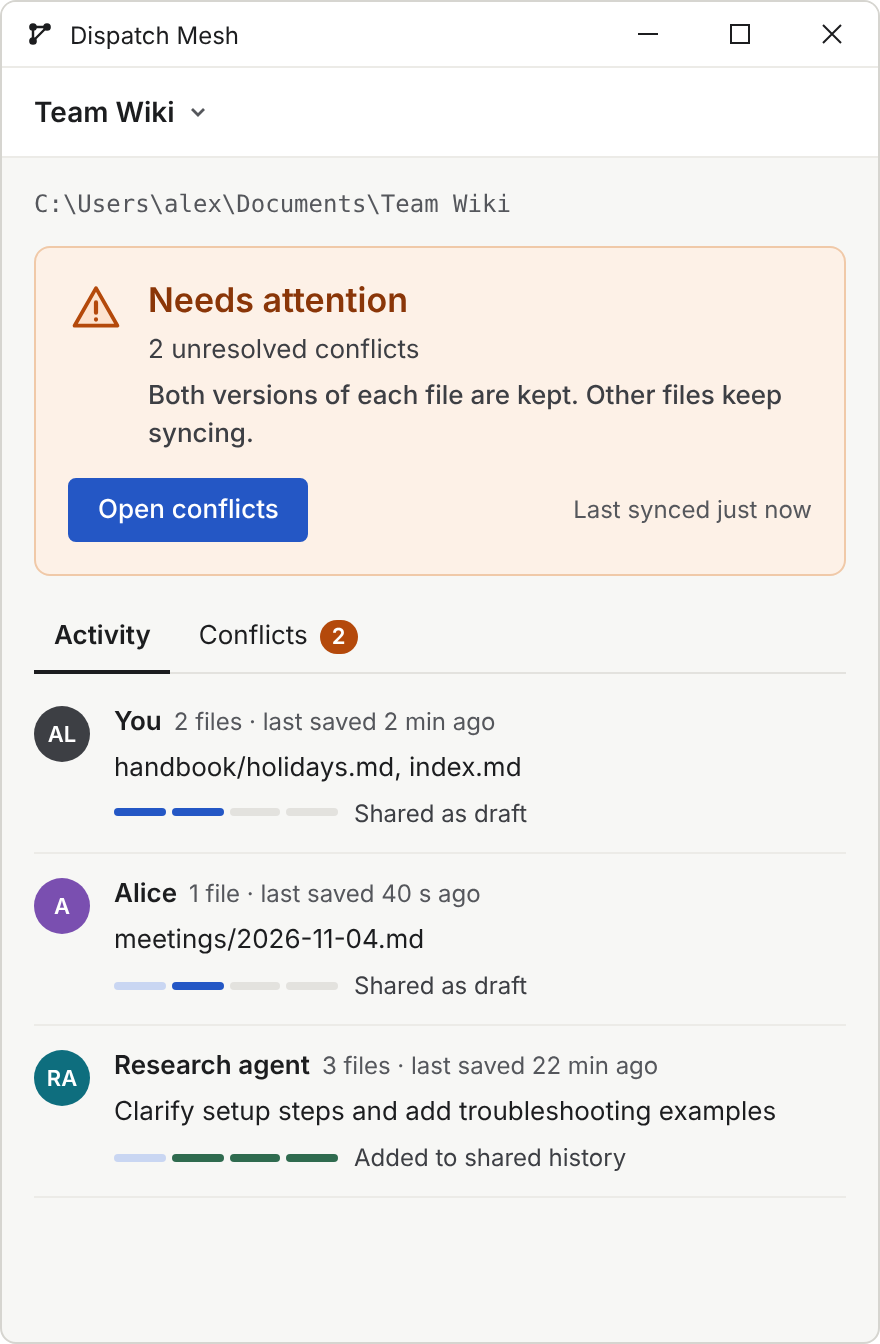
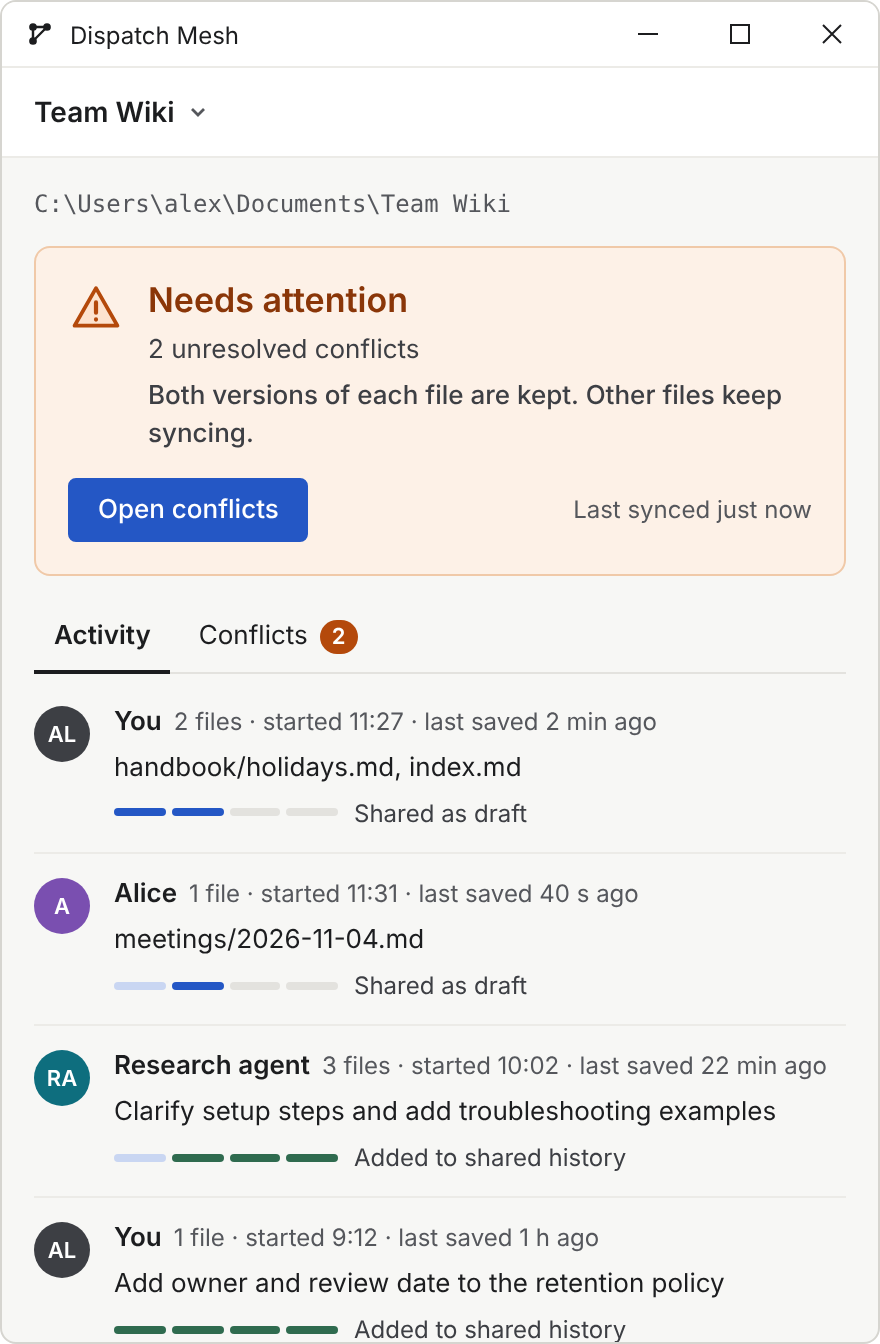
Update session row design with start times and published titles
Refine the design spec and status-window/activity frame sources so session metadata includes its start time and published sessions display a summary title. Update the rendered frame images, append the design change to the wiki log, and add a log-reading reminder to the source notes checklist.

Mesh-Session: 11c52f5b-11e1-47c1-a4ed-e7c026a45ca4
Mesh-Snapshot: bfd648a8fcc67564a07486a97321307a30a4680981573989cb6e347fff0e612a

diff --git a/06_UX/frames/source/03a-status-window.dc.html b/06_UX/frames/source/03a-status-window.dc.html
@@ -140,7 +140,8 @@ class Component extends DCLogic {
     })).map((st, i) => (received && i === 0 ? { bg: '#C9D6F2' } : st)); };
     if (!remote) { s.lastSync = 'This device only'; }
     const youTitle = { 1: 'handbook/holidays.md, index.md', 2: 'handbook/holidays.md, index.md', 3: 'handbook/holidays.md, index.md', 4: 'Update holiday dates for 2027' };
-    const youMeta = { 1: '2 files · last saved just now', 2: '2 files · last saved 2 min ago', 3: '2 files · last saved 3 min ago', 4: '2 files · last saved 6 min ago' };
+    // Meta shows the start time and the last save (no device). Every published session has a summary title (AI-written, or the local summary).
+    const youMeta = { 1: '2 files · started 11:27 · last saved just now', 2: '2 files · started 11:27 · last saved 2 min ago', 3: '2 files · started 11:27 · last saved 3 min ago', 4: '2 files · started 11:27 · last saved 6 min ago' };
     const row = (who, meta, title, initials, avatarBg, n, received) => {
       const p = pos(n);
       return { who, meta, title, initials, avatarBg, steps: track(n, received), stage: stageLabels[p - 1], stageAria: 'Stage: ' + stageLabels[p - 1] + ', ' + p + ' of ' + total };
@@ -148,8 +149,9 @@ class Component extends DCLogic {
     // Avatar colors: hash of the email picks one of six; "You" is always neutral grey (US00012 Q9). No device is ever shown (Q6).
     const sessions = [
       row('You', youMeta[m.you], youTitle[m.you], 'AL', '#3D3F44', m.you, false),
-      row('Alice', '1 file · last saved 40 s ago', 'meetings/2026-11-04.md', 'A', '#7A4FB0', 2, true),
-      row('Research agent', '3 files · last saved 22 min ago', 'Clarify setup steps and add troubleshooting examples', 'RA', '#0E6E7E', 4, true)
+      row('Alice', '1 file · started 11:31 · last saved 40 s ago', 'meetings/2026-11-04.md', 'A', '#7A4FB0', 2, true),
+      row('Research agent', '3 files · started 10:02 · last saved 22 min ago', 'Clarify setup steps and add troubleshooting examples', 'RA', '#0E6E7E', 4, true),
+      row('You', '1 file · started 9:12 · last saved 1 h ago', 'Add owner and review date to the retention policy', 'AL', '#3D3F44', 4, false)
     ];
     const onConflicts = tab === 'conflicts';
     const tabs = {

diff --git a/06_UX/frames/source/03c-activity-presence.dc.html b/06_UX/frames/source/03c-activity-presence.dc.html
@@ -46,7 +46,7 @@ button{font-family:inherit}
         <h2 style="margin: 0; font-size: 18px; font-weight: 600; line-height: 1.3">Clarify setup steps and add troubleshooting examples</h2>
         <div style="display: flex; gap: 8px; align-items: center; font-size: 12px; color: #55575C">
           <span aria-hidden="true" style="width: 20px; height: 20px; border-radius: 50%; background: #0E6E7E; color: #FFFFFF; font-size: 9px; font-weight: 600; display: flex; align-items: center; justify-content: center">RA</span>
-          <span><strong style="color: #1C1D1F; font-weight: 600">Research agent</strong> · today 10:09</span>
+          <span><strong style="color: #1C1D1F; font-weight: 600">Research agent</strong> · started 10:02 · added today 10:09</span>
         </div>
       </div>
 

diff --git a/06_UX/Dispatch Mesh desktop app — design spec.md b/06_UX/Dispatch Mesh desktop app — design spec.md
@@ -182,12 +182,14 @@ Only Needs attention gets color and a primary button. Offline is grey, never red
 ### Session row
 
 ```
-[avatar 28]  Author 13/600 ("You" for this device)   meta 12 text-3 ("2 files · last saved 2 min ago", never a device)
-             Title once published, else files: 13/400, one line, ellipsized
+[avatar 28]  Author 13/600 ("You" for this device)   meta 12 text-3 ("2 files · started 11:27 · last saved 2 min ago", never a device)
+             Summary title once published, else files: 13/400, one line, ellipsized
              [▬▬ ▬▬ ▭▭ ▭▭]  Stage label 12 text-2
 ```
 
 - Gap 12 between avatar and text; 6 between the three lines.
+- **Meta** always carries the file count, the session's start time and its last save. The start time is a clock time ("started 11:27"; a date once it isn't today), the last save is relative.
+- **Every published session has a summary title**, whoever authored it: the AI-written title when AI summaries are on, otherwise the factual local summary. It replaces the file list on line 2. Unpublished sessions show their files. Agent sessions aren't special.
 - **Stage track:** 4 segments with a remote, 3 without; each 4 px high, radius 2, gap 3, total width 28 px × segment count (112 / 84). Segments up to the current stage are filled with `working`; a published session fills all with `synced`; later segments are `line`. For a session from another device (its `device` differs from `Status.device`, US00012 Q5) the first segment is `received`, because this device never had it saved locally.
 - The stage is named **once**, as text right of the track. The track itself is `aria-hidden`; the row carries "Stage: Shared as draft, 2 of 4" for screen readers.
 - Discarded sessions show a "Discarded" tag instead of the track.

diff --git a/00_Start-Here/log.md b/00_Start-Here/log.md
@@ -369,3 +369,6 @@ Append-only. One entry per change: `## [YYYY-MM-DD] <type> | <title>`, followed 
 
 ## [2026-11-07] merge | BUG00002 merged to main
 - Fast-forwarded `main` to `01da7b1` (the BUG00002 fix) and pushed. Rebuilt `target/release` from it. Recorded in [[Bug - BUG00002 - One large text file makes the whole AI summary fall back|BUG00002]].
+
+## [2026-11-07] design | Session rows show start time; every published session has a title
+- Matched the frames to the built window: the session meta now reads "N files · started 11:27 · last saved …", and a second published session by "You" shows that every published session carries a summary title, not just agent sessions. Updated the canvas, `06_UX/frames/` (03a, 03a2, 03b, 03c PNGs and sources) and [[Dispatch Mesh desktop app — design spec]] (*Session row*).

diff --git a/01_Sources/Notes/2026-11-07.md b/01_Sources/Notes/2026-11-07.md
@@ -1,3 +1,3 @@
 - [ ] Configure system prompt for Mesh
 - [ ] Configure line endings: LF default CRLF optional
-- [ ] 
+- [ ] Read last entry from log.md for every commit and add timestamp for every log entry.
